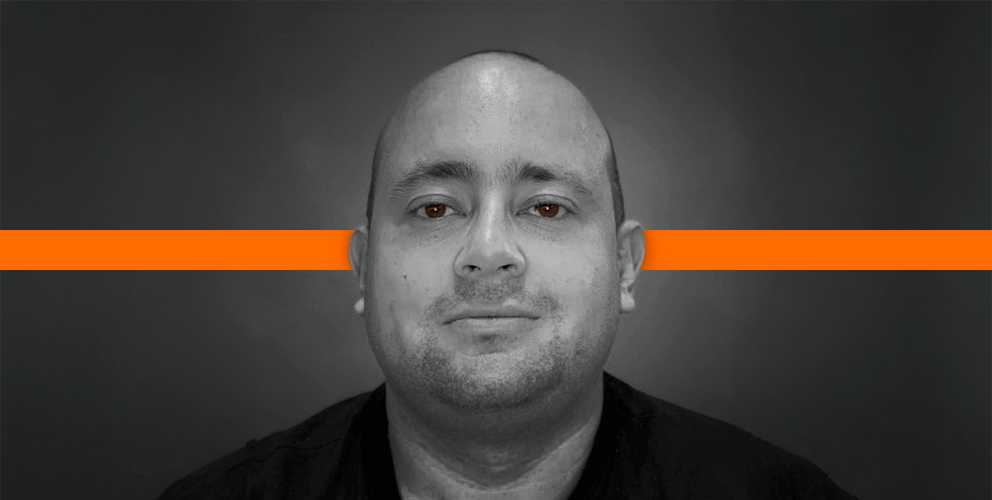
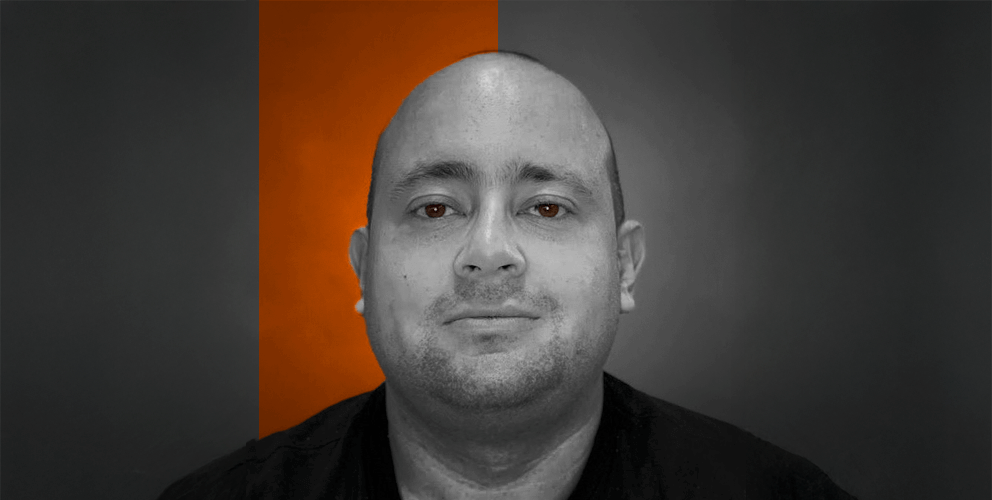
Mudanca de Foto

Changed region(s): [[0.0, 0.0, 0.5, 0.87], [0.625, 0.45, 1.0, 0.54]]

diff --git a/css/estilo.css b/css/estilo.css
@@ -368,7 +368,7 @@ button:focus-visible {
   text-align: left;
   box-sizing: border-box;
   padding: 10px 0px 10px 0px;
-  margin: 20px 0px 20px 0px;
+  margin: 0px 0px 20px 0px;
   animation: 200ms ease 0s 1 normal none running k-kjpeXv;
   gap: 20px;
   background-color: #fff2ea;
@@ -577,15 +577,39 @@ p {
   /* transform: translateX(50%); */
   margin: 0px 0px 0px;
   flex-wrap: wrap;
+
+}
+.c-iUYKal:before {
+  position: absolute;
+  top:0px;
+  right:0px;
+  background-image: url('../imagens/perfil-andrew.png');
+  background-repeat: no-repeat;
+  background-position: 55vw center;
+  background-size: cover;
+  width: 100%;
+  height:100%;
+  content:'';
+  filter:grayscale(1)
 }
 @media (max-width: 850px) {
   .c-iUYKal {
     /* transform: translateX(0%); */
-    width: 99vw;
+    width: 100vw;
     height: 100%;
     background-size: cover;
     background-position: center top;
-    padding: 20px 50px 50px 50px;
+    /* padding: 20px 50px 50px 50px; */
+    padding: 0;
+  }
+  .c-iUYKal:before {
+    background-position: 35vw center;
+    width:100% !important;
+    height:100% !important;
+    padding:0;
+  }
+  .imgEu, .euMobile{
+    display:none !important;
   }
 }
 @media (max-width: 500px) {
@@ -593,6 +617,9 @@ p {
     box-sizing: border-box;
     padding: 20px 10px 50px 10px;
     height: auto;
+  }
+  .c-iUYKal:before {
+    display:none !important;
   }
   .c-iUYKal .conteudo {
     padding: 0px;
@@ -614,17 +641,23 @@ p {
   }
 }
 .imgEu {
+  position:relative;
   display: flex;
   align-items: center;
   max-width: 40%;
   width: 40%;
-  
+
+  /* filter: grayscale(1); */
 }
 .imgEu img {
+  display: none;
+  position:relative;
   width: 70%;
   border-radius: 100%;
-  box-shadow:0 10px 3px rgba(0,0,0,0.15)
+  box-shadow:0 10px 3px rgba(0,0,0,0.15);
+  /* box-shadow:inset 0px 0px 10px 10px rgba(0,0,0.1) */
 }
+
 @media (max-width: 500px) {
   .imgEu {
     display: none;

diff --git a/index.html b/index.html
@@ -41,7 +41,9 @@
                         </h1>
                     </a>
                     <div class="imgEu euMobile">
-                        <img src="./imagens/eu-3-mobile.png" alt="Minha foto pessoal olhando fixamente para você!" title="Andrew Luciano">
+                        <picture>
+                            <img src="./imagens/eu-3-mobile.png" alt="Minha foto pessoal olhando fixamente para você!" title="Andrew Luciano">
+                        </picture>
                     </div>  
                     <h2>Designer</h2>
                     <h3> Criatividade Minimalista</h3>
@@ -102,7 +104,9 @@
                             
                         </div> 
                         <div class="imgEu">
-                            <img src="./imagens/eu-3.png" alt="Andrew Luciano">
+                            <picture>
+                                <img src="./imagens/eu-3.png" alt="Andrew Luciano">
+                            </picture>
                         </div>  
                     </div>
                     
